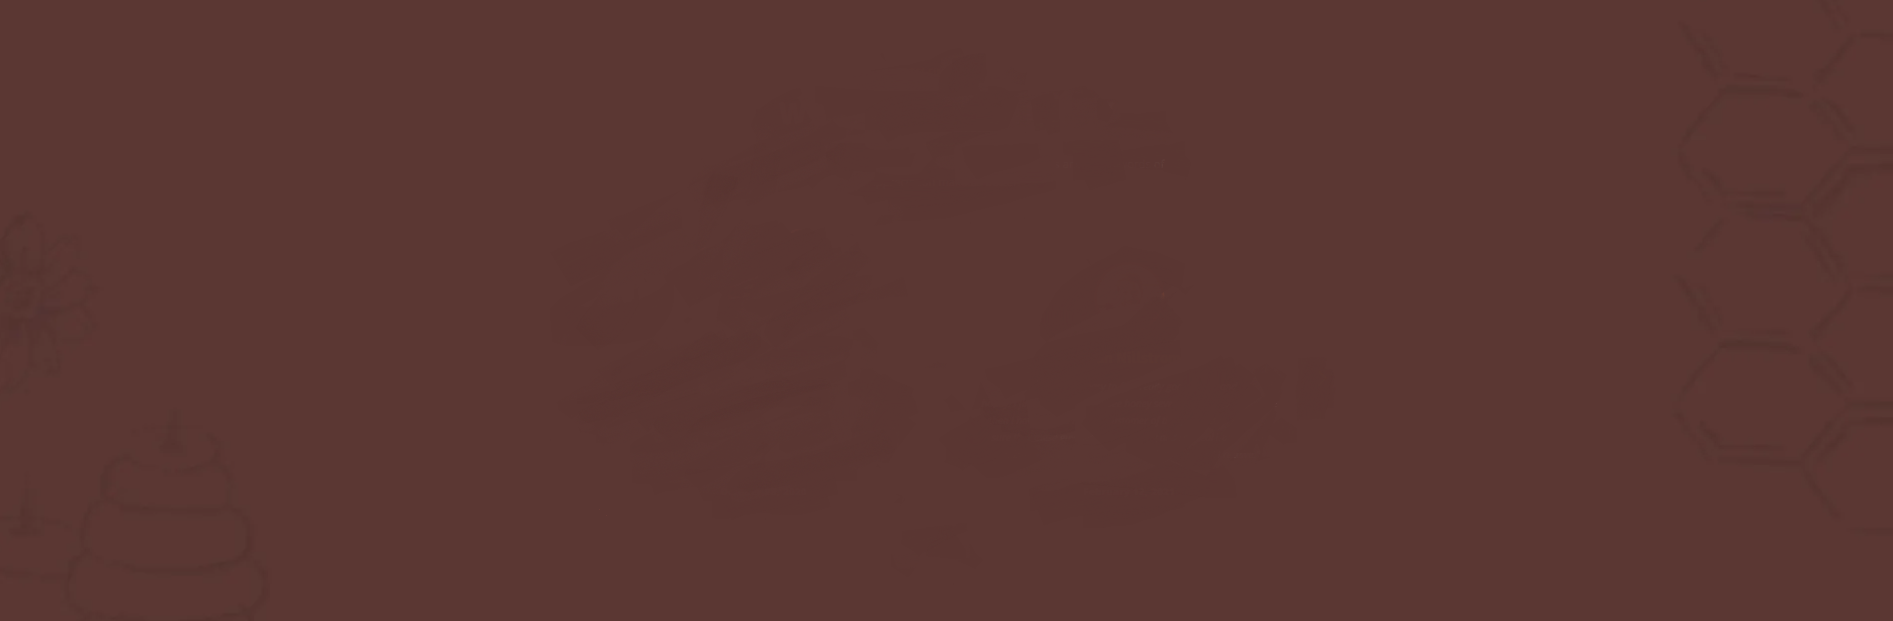
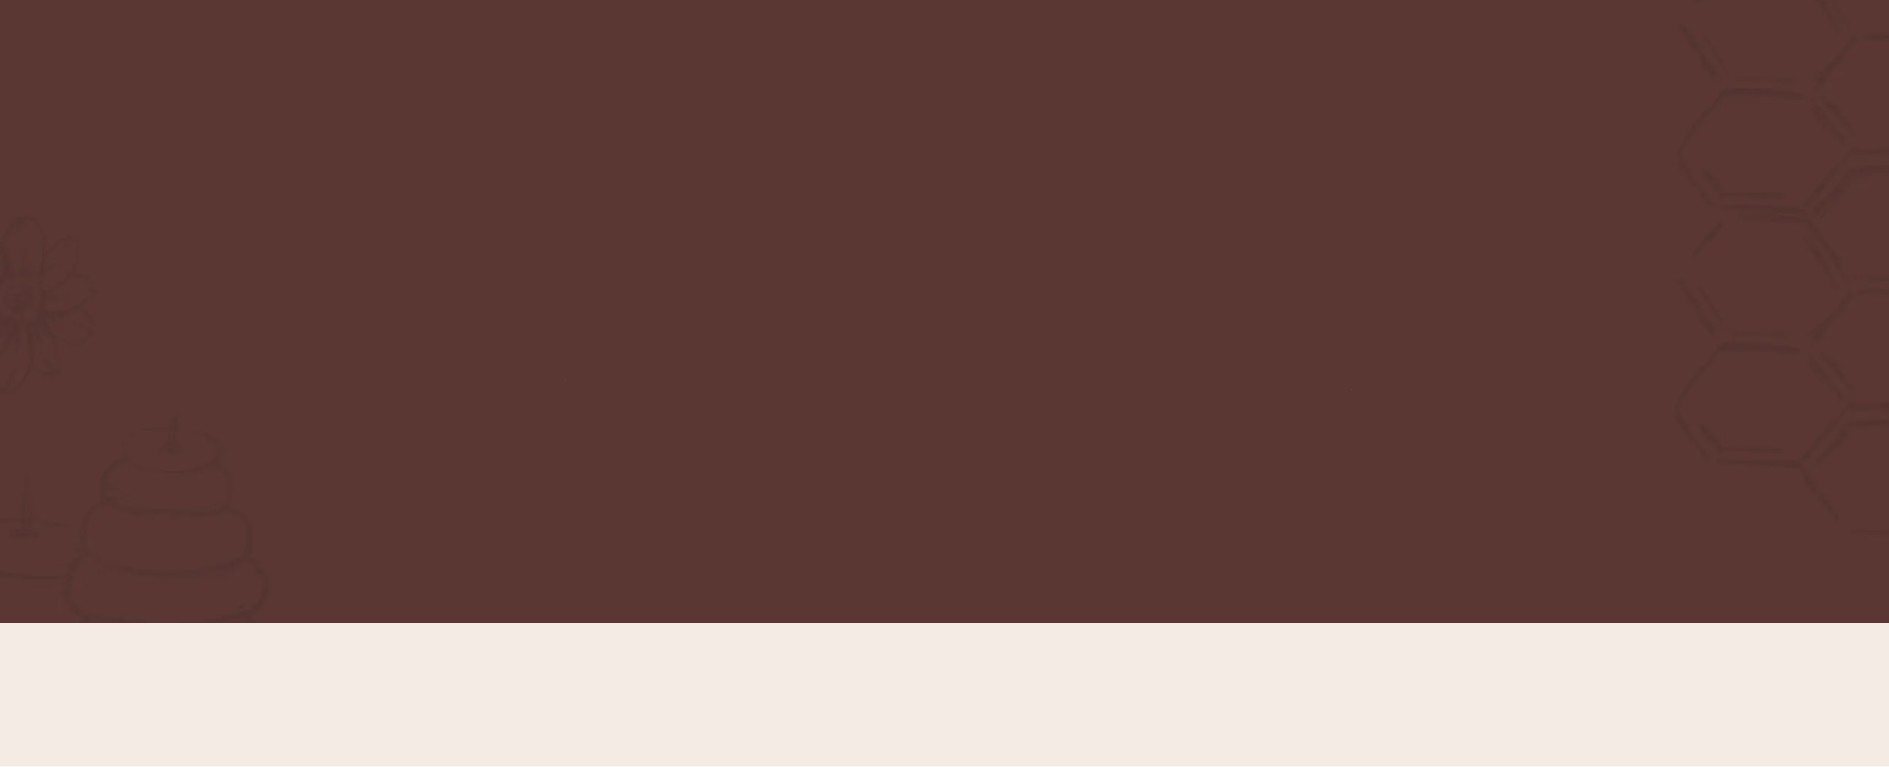
add short info unred reviews

Changed region(s): [[0.0, 0.7955, 1.0, 1.0]]

diff --git a/index.html b/index.html
@@ -224,47 +224,74 @@
 
 
         <!--consumer reviews block-->
-            <link rel="stylesheet" href="what-our-clients-say.css">
-            <style>
-            @import url('https://fonts.googleapis.com/css2?family=Open+Sans:ital,wght@1,300&display=swap');
-            </style>
-        <div class="consumer-reviews-block">
+        <section class="consumer-reviews-block">
+                <link rel="stylesheet" href="what-our-clients-say.css">
+                <style>
+                   @import url('https://fonts.googleapis.com/css2?family=Open+Sans:ital,wght@1,300&display=swap');
+                </style>
             <div class="testimonials">TESTIMONIALS</div>
-            <h2 class="consumer-reviews-heading">WHAT OUR CLIENTS SAY</h2>
-        <div>
-            <p class="review-window-heading">We are glad they our honey its to our clients` liking. Your reviews and warm words
+                <h2 class="consumer-reviews-heading">WHAT OUR CLIENTS SAY</h2>
+            <div>
+                <p class="review-window-heading">We are glad they our honey its to our clients` liking. Your reviews and warm words
                 of appreciation make us better!</p>
-        </div>
+            </div>
         <!--1 consumer-->
-        <div class="consumer-reviews-places">
-        <div class="consumer-1">
-            <img class="consumers-photo" src="img/jessica_peterson.webp" alt="Jessica Peterson`s review">
-            <h5 class="review-window">Jessica Peterson</h5>
-            <p class="review-text">This is great honey, 100% natural! It is not the first time I order honey from this
-                company, and every time I know that I will get delicious, high-quality, not crystallized honey. I use
-                honey as a topping for pancakes, various desserts, and marinades. It is delicious and my children also
-                like this honey!</p>
-        </div>
+            <div class="consumer-reviews-places">
+                <div class="consumer-1">
+                   <img class="consumers-photo" src="img/jessica_peterson.webp" alt="Jessica Peterson`s review">
+                   <h5 class="review-window">Jessica Peterson</h5>
+                   <p class="review-text">This is great honey, 100% natural! It is not the first time I order honey from this
+                    company, and every time I know that I will get delicious, high-quality, not crystallized honey. I use
+                    honey as a topping for pancakes, various desserts, and marinades. It is delicious and my children also
+                    like this honey!</p>
+                    <p class="review-window-date">October 28, 2020</p>
+                </div>
         <!--2 consumer-->
-        <div class="consumer-2">
-            <img class="consumers-photo" src="img/dean_nillstrom.webp" alt="Dean Nillstrom`s review">
-            <h5 class="review-window">Dean Nillstrom</h5>
-            <p class="review-text">Nowadays it is not so easy to find really good, tasty, and natural honey. I first
-                tried the HoneyBee honey several years ago, and since then I have been a regular customer of this
-                producer. I know for sure that these guys work with feeling and sell real honey from their swaths. I am
-                always happy with the product I receive.</p>
-        </div>
+                <div class="consumer-2">
+                    <img class="consumers-photo" src="img/dean_nillstrom.webp" alt="Dean Nillstrom`s review">
+                    <h5 class="review-window">Dean Nillstrom</h5>
+                    <p class="review-text">Nowadays it is not so easy to find really good, tasty, and natural honey. I first
+                    tried the HoneyBee honey several years ago, and since then I have been a regular customer of this
+                    producer. I know for sure that these guys work with feeling and sell real honey from their swaths. I am
+                    always happy with the product I receive.</p>
+                    <p class="review-window-date">February 12, 2021</p>
+                </div>
         <!--3 consumer-->
-        <div class="consumer-3">
-            <img class="consumers-photo" src="img/diana_fergusson.webp" alt="Diana Fergusson`s review">
-            <h5 class="review-window">Diana Fergusson</h5>
-            <p class="review-text">Having tasted this honey once, I no longer needed alternatives. This is the tastiest
-                honey I've ever tried! I buy different types of honey, from clover to buckwheat. Each jar of honey is a
-                real triumph of taste. This is real honey — thick, aromatic, dark, and moderately sweet. Exactly what I
-                need!</p>
-        </div>
-        </div>
-        </div>
+                <div class="consumer-3">
+                    <img class="consumers-photo" src="img/diana_fergusson.webp" alt="Diana Fergusson`s review">
+                    <h5 class="review-window">Diana Fergusson</h5>
+                    <p class="review-text">Having tasted this honey once, I no longer needed alternatives. This is the tastiest
+                    honey I've ever tried! I buy different types of honey, from clover to buckwheat. Each jar of honey is a
+                    real triumph of taste. This is real honey — thick, aromatic, dark, and moderately sweet. Exactly what I
+                    need!</p>
+                    <p class="review-window-date">April 18, 2021</p>
+                </div>
+            </div>
+                
+            <div class="short-info-block">
+                <div class="short-info-element">
+                    <h5 class="short-info-heading">2574</h5>
+                    <div class="brown-line"></div>
+                    <p class="short-info-text">Honey jars produced in 2020</p>
+                </div>
+                <div class="short-info-element">
+                    <h5 class="short-info-heading">130</h5>
+                    <div class="brown-line"></div>
+                    <p class="short-info-text">Customers every month</p>
+                </div>
+                <div class="short-info-element">
+                    <h5 class="short-info-heading">12</h5>
+                    <div class="brown-line"></div>
+                    <p class="short-info-text">Swaths in California</p>
+                </div>
+                 <div class="short-info-element">
+                    <h5 class="short-info-heading">3946</h5>
+                    <div class="brown-line"></div>
+                    <p class="short-info-text">Bees working for you</p>
+                </div>
+            </div>
+
+        </section>
 
         <!--contacts block-->
         <div class="contacts-block">

diff --git a/styles/what-our-clients-say.css b/styles/what-our-clients-say.css
@@ -4,44 +4,6 @@
     height: 100%;
 }
 
-.testimonials {
-    color: yellow;
-    text-align: center;
-    font-size: 14px;
-    margin-top: 40px;
-}
-
-.consumer-reviews-heading {
-    color: white;
-    text-align: center;
-    font-family: 'Signika Negative', sans-serif;
-    font-size: 50px;
-    margin: auto;
-}
-
-.review-window-heading{
-    color: white;
-    text-align: center;
-    font-size: 18px;
-    margin: auto;
-}
-
-.review-window {
-    text-align: center;
-    font-family: 'Open Sans', sans-serif;
-    font-style: italic;
-    font-size: 25px;
-    color: yellow;
-    margin: auto;
-}
-.review-text {
-    color: white;
-    text-align: center;
-    font-family: 'Open Sans', sans-serif;
-    font-style: italic;
-    font-size: 16px;
-    margin: auto;
-}
 .consumer-reviews-places {
     display: flex;
     margin-inline: 100px; 
@@ -63,10 +25,103 @@
  }
 
 
+
+
+.testimonials {
+    color: yellow;
+    text-align: center;
+    font-size: 14px;
+    margin-top: 40px;
+}
+
+.consumer-reviews-heading {
+    color: white;
+    text-align: center;
+    font-family: 'Signika Negative', sans-serif;
+    font-size: 50px;
+    margin: auto;
+}
+
+.review-window-heading{
+    color: white;
+    text-align: center;
+    font: inherit;
+    margin: auto;
+}
+
+.review-window {
+    text-align: center;
+    font-family: 'Open Sans', sans-serif;
+    font-style: normal;
+    font-size: 25px;
+    color: yellow;
+    margin: auto;
+    margin-top: 20px;
+}
+.review-text {
+    color: white;
+    text-align: center;
+    font-family: 'Open Sans', sans-serif;
+    font-style: italic;
+    font-size: 16px;
+    margin: auto;
+    margin-top: 20px;
+}
+
+.review-window-date {
+    color: white;
+    text-align: center;
+    font-family: 'Open Sans', sans-serif;
+    font-style: normal;
+    font-size: 16px;
+    margin: auto;
+    margin-top: 20px;
+}
+
+
 .consumers-photo {
     display: flex;
     margin-left: auto;
     margin-right: auto;
     width: 150px;
     height: 150px;
+}
+
+
+.short-info-block {
+    display: flex;
+    margin-top: 100px;
+    margin-left: 100px;
+} 
+
+.short-info-element {
+    display: block;
+    margin: auto;  
+}
+
+.short-info-heading {
+    text-align: center;
+    font-family: Signika Negative,sans-serif;
+    font-size: 50px;
+    color: #eb6d2f;
+    margin: auto;
+}
+
+.brown-line {
+    color: rgb(107, 41, 8);
+    width: 50px;
+    border-bottom: 4px #5a3733 solid;
+    margin: auto;
+    margin-top: 10px;
+    margin-bottom: 10px;
+  }
+
+.short-info-text {
+    text-align: center;
+    font: inherit;
+    font-size: 16px;
+    font-weight: bold;
+    color: #5a3733;
+    margin: auto;
+    margin-bottom: 10px;
 }
